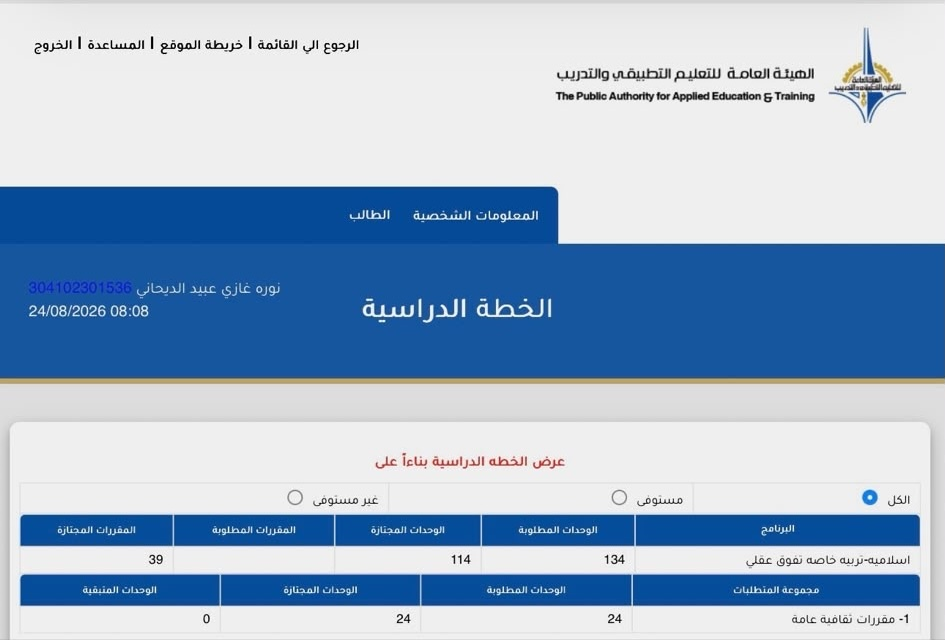
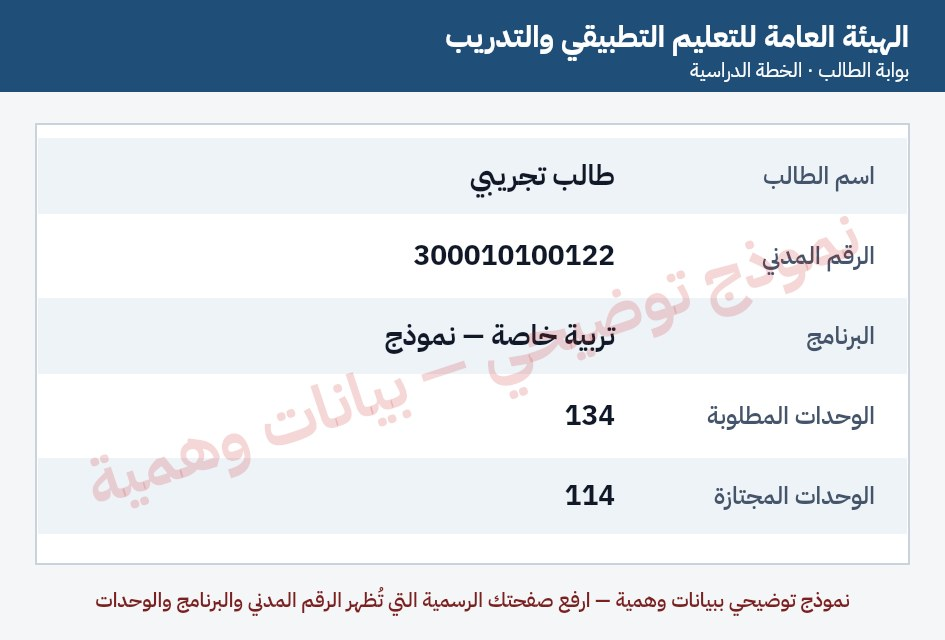
Replace the real student portal screenshot and civil ID with generated synthetic examples

diff --git a/tests/student-journey-audit.ts b/tests/student-journey-audit.ts
@@ -1,0 +1,62 @@
+/**
+ * ── تدقيق رحلة الطالب (مراجعة الأدوار الستة، 2026-09-25) ────────────────────
+ *
+ * كل قسمٍ هنا يقابل ملاحظةً من قائمة «الطالب» (S1…S22). الفحوص إمّا سلوكية
+ * (تستدعي الدالة المصدّرة نفسها) وإمّا بنيوية (تثبت أن القاعدة مكتوبة في
+ * مكانٍ واحد وأن كلّ مستدعٍ يمرّ بها).
+ */
+import fs from "fs";
+import path from "path";
+import { execSync } from "child_process";
+import { validateCivilId } from "../src/utils/civilId";
+
+let passed = 0, failed = 0;
+function check(condition: boolean, name: string) {
+  if (condition) { passed++; console.log(`\x1b[32m✓ ${name}\x1b[0m`); }
+  else { failed++; console.log(`\x1b[31m✗ ${name}\x1b[0m`); }
+}
+const ROOT = process.cwd();
+const read = (file: string) => fs.readFileSync(path.join(ROOT, file), "utf8");
+const server = read("server.ts");
+const between = (source: string, start: string, end: string) => {
+  const from = source.indexOf(start);
+  if (from < 0) return "";
+  const to = source.indexOf(end, from + start.length);
+  return source.slice(from, to < 0 ? undefined : to);
+};
+
+/* ── S1 الخصوصية: لا بيانات طالبٍ حقيقي في المستودع ─────────────────────── */
+{
+  const jpg = fs.readFileSync(path.join(ROOT, "public/graduation-sheet-example.jpg"));
+  check(jpg[0] === 0xff && jpg[1] === 0xd8, "S1 نموذج صحيفة التخرج صورة JPEG صالحة");
+  check(!jpg.includes(Buffer.from("Exif")), "S1 النموذج بلا بيانات EXIF (ليس لقطة شاشة من جهاز)");
+  const generator = read("scripts/make-graduation-sheet-example.mjs");
+  check(generator.includes("طالب تجريبي") && generator.includes("بيانات وهمية"),
+    "S1 النموذج يُولَّد برمجياً ببيانات وهمية معلنة");
+  const synthetic = new Set(["300010100122", "300123100006"]);
+  const tracked = execSync("git ls-files server.ts src tests scripts public", { cwd: ROOT }).toString().trim().split("\n")
+    .filter(file => /\.(ts|tsx|js|mjs|cjs|py|html|json)$/.test(file))
+    /* The generated location registry holds 12-digit building/hall keys, not people. */
+    .filter(file => !file.startsWith("src/generated/"));
+  const leaks: string[] = [];
+  for (const file of tracked) {
+    const text = fs.readFileSync(path.join(ROOT, file), "utf8");
+    for (const match of text.matchAll(/(?<![\d_])[23]\d{11}(?!\d)/g)) {
+      const value = match[0];
+      if (synthetic.has(value) || !validateCivilId(value).isValid) continue;
+      leaks.push(`${file}:${value.slice(0, 2)}…`);
+    }
+    for (const match of text.matchAll(/(?<!\d)([23]\d{3})[ .-](\d{4})[ .-](\d{4})(?!\d)/g)) {
+      const value = match[1] + match[2] + match[3];
+      if (synthetic.has(value) || !validateCivilId(value).isValid) continue;
+      leaks.push(`${file}:${value.slice(0, 2)}… (مجزّأ)`);
+    }
+  }
+  check(leaks.length === 0, `S1 لا رقم مدني صالح غير وهمي في الشيفرة أو الاختبارات${leaks.length ? " — " + leaks.join(", ") : ""}`);
+}
+
+export function finish() {
+  console.log(`\n${passed} passed, ${failed} failed`);
+  if (failed) process.exit(1);
+}
+finish();

diff --git a/tests/pdf-import-regression.ts b/tests/pdf-import-regression.ts
@@ -678,12 +678,12 @@ const spacedCivilProof = graduationSheetFacts(`
 الهيئة العامة للتعليم التطبيقي والتدريب
 الخطة الدراسية
 240820260808
-نوره غازي عبيد الرحماني 3041 0230 1536
+طالب تجريبي 3000 1010 0122
 البرنامج اسلامية تربية خاصة
 الوحدات المطلوبة 134
 الوحدات المجتازة 114
 `);
-assert.ok(spacedCivilProof.civilCandidates.includes("304102301536"));
+assert.ok(spacedCivilProof.civilCandidates.includes("300010100122"));
 assert.ok(spacedCivilProof.civilCandidates.includes("240820260808"));
 
 /* ── الفرع: القسم الواحد في ثلاثة مواقع ────────────────────────────────────

diff --git a/server.ts b/server.ts
@@ -12892,7 +12892,7 @@ app.post("/api/public/survey/:token/proof", express.raw({type:"application/octet
      noise by checksum, then accept the entered civil when it appears either as
      one token or as digit groups on ONE visual line. No digit is repaired or
      guessed. This restores the official Authority screenshot where Tesseract
-     may emit «3041 0230 1536» instead of «304102301536». */
+     may emit «3000 1010 0122» instead of «300010100122». */
   const proofAscii=asciiDigits(String(ocr.text||""));
   const escapedCivil=civil.split("").map(d=>d.replace(/[.*+?^${}()|[\]\\]/g,"\\$&")).join("[ \t\u00a0\u200e\u200f.-]{0,3}");
   const civilVisible=civilCandidates.includes(civil)||new RegExp(`(?:^|[^0-9])${escapedCivil}(?:[^0-9]|$)`).test(proofAscii);

diff --git a/src/utils/documentOcr.ts b/src/utils/documentOcr.ts
@@ -4991,7 +4991,7 @@ export function graduationSheetFacts(text:string){
   const lines=plain.split(/\r?\n/);
   const lineCivil=lines.map(line=>line.replace(/\D/g,""))
     .filter(value=>value.length===12);
-  /* Tesseract often inserts spaces between digit groups (3041 0230 1536).
+  /* Tesseract often inserts spaces between digit groups (3000 1010 0122).
      Recover a 12-digit run from one visual line even when unrelated text or a
      date also exists elsewhere on that line. The server checksum-filters these
      candidates and still requires the exact civil entered by the student. */

diff --git a/AUDIT-PROGRESS-student.md b/AUDIT-PROGRESS-student.md
@@ -1,0 +1,26 @@
+# AUDIT PROGRESS — student stream (fix/student)
+
+| id | status | covered by |
+|----|--------|------------|
+| S1 | FIXED — real portal screenshot replaced by generated synthetic example (scripts/make-graduation-sheet-example.mjs); real civil ID/name replaced with synthetic 300010100122 / «طالب تجريبي» in server.ts, documentOcr.ts, pdf-import-regression.ts. NOTE: the old image and values remain in git history / the public GitHub repo — owner must purge history (not done here: never push). | tests/student-journey-audit.ts §S1 (EXIF-free generated asset + repo-wide checksum-valid civil-ID guard) |
+| S2 | TODO | |
+| S3 | TODO | |
+| S4 | TODO | |
+| S5 | TODO | |
+| S6 | TODO | |
+| S7 | TODO | |
+| S8 | TODO | |
+| S9 | TODO | |
+| S10 | TODO | |
+| S11 | TODO | |
+| S12 | TODO | |
+| S13 | TODO | |
+| S14 | TODO | |
+| S15 | TODO | |
+| S16 | TODO | |
+| S17 | TODO | |
+| S18 | TODO | |
+| S19 | TODO | |
+| S20 | TODO | |
+| S21 | TODO | |
+| S22 | TODO | |
